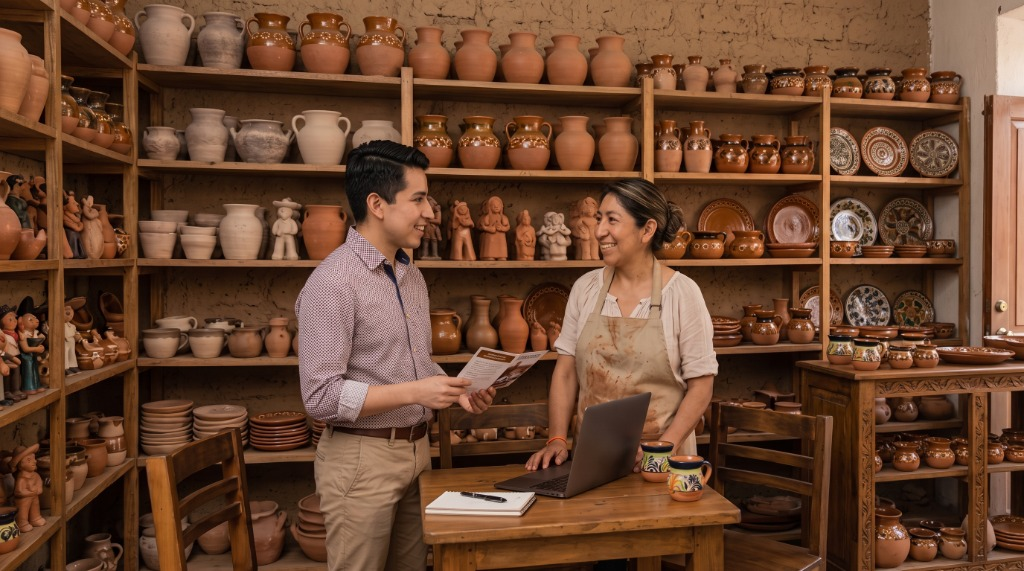
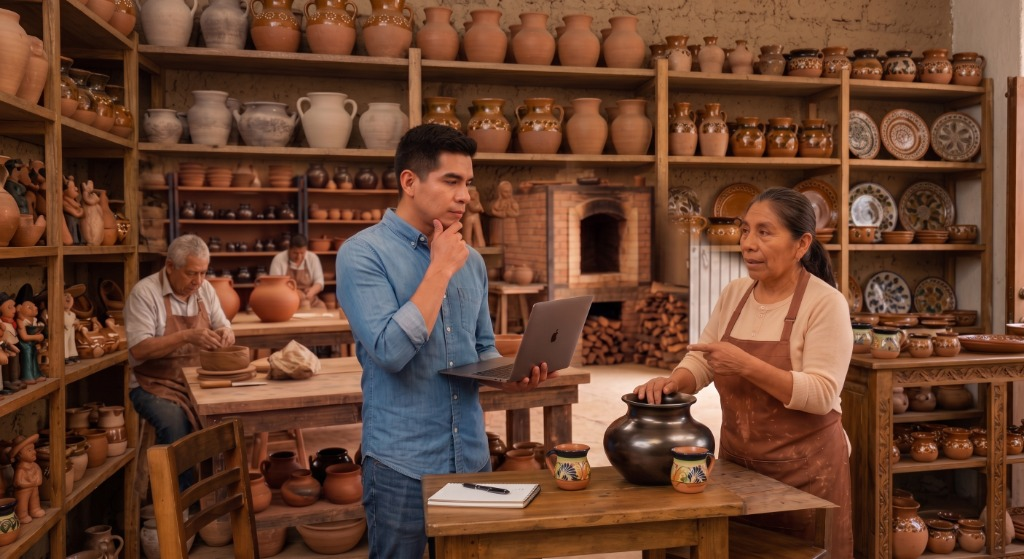
Sustituir imagen en seccion 1.2 del Estandar B

diff --git a/estandar-b/elemento-1.html b/estandar-b/elemento-1.html
@@ -138,7 +138,7 @@
         </summary>
         <div class="accordion__body">
           <figure class="img-caso">
-            <img src="../img/escenas/diego-lucia-evaluacion-elemento-1-b.jpg" alt="Diego dialogando con Lucía en el taller de cerámica sobre la evaluación del Elemento 1" class="img-escena" loading="lazy" />
+            <img src="../img/escenas/diego-lucia-evaluacion-elemento-1-b.jpg?v=2" alt="Diego dialogando con Lucía en el taller de cerámica sobre la evaluación del Elemento 1" class="img-escena" loading="lazy" />
           </figure>
 
           <p>El primer paso para la creación de soluciones comerciales con IA en la mipyme y que corresponde con el Elemento 1 del Estándar de competencia, es: <strong>Identificar necesidades del usuario y oportunidades de mercado de soluciones comerciales en la mipyme mediante IA</strong>. Recuerda que la evaluación de competencias, se compone por la valoración de diferentes tipos de evidencias, en la fase inicial de planeación, deberás demostrar lo siguiente:</p>
